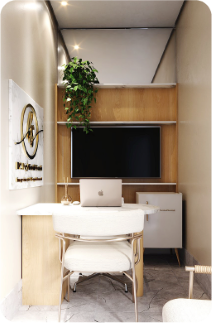
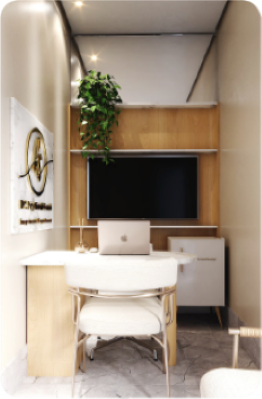
Atualizações nos arquivos index.html e style.css

diff --git a/style.css b/style.css
@@ -34,11 +34,11 @@
 .doutoras-png {
     position: absolute;
     top: 50%; /* Centraliza verticalmente no banner */
-    left: 80%;/* Centraliza horizontalmente no banner */
+    left: 78%;/* Centraliza horizontalmente no banner */
     transform: translate(-50%, -50%); /* Garante alinhamento central */
     width: auto; /* Reduz o tamanho da imagem para 15% da largura do banner */
     max-width: 820px; /* Limita o tamanho máximo (opcional) */
-    height: 100%; /* Mantém as proporções da imagem */
+    height: 80%; /* Mantém as proporções da imagem */
     z-index: 10; /* Coloca a imagem acima do banner */
   }
 
@@ -461,7 +461,7 @@ h8 {
   }
   
   .depoimentos button:hover {
-    background-color: #3e8e41;
+    background-color: #8e3e6f;
   }
   
 
@@ -521,6 +521,9 @@ h8 {
     border-radius: 10px;
     overflow: hidden;
   }
+
+
+  
 
 
   /* Media query para mobile */
@@ -735,7 +738,11 @@ h8 {
 }
 
 
-
+@media (max-width: 768px) {
+    .prev {
+      font-size: 14px;
+    }
+  }
 
 @media (max-width: 768px) {
     .bobfooter .row {

diff --git a/index.html b/index.html
@@ -227,7 +227,8 @@
             <div class="d-flex align-items-center justify-content-center mt-4 w-100">
                 <div id="parceria-list" class="row row-cols-auto gap-4 w-100">
                     <div class="col">
-                        <img src="images/nutro.png" class="img-card" />
+                        <a href="images/nutro.png" data-lightbox="parceria"></a>
+                         <img src="images/nutro.png" class="img-card" />
                     </div>
 
                     <div class="col">
@@ -498,6 +499,8 @@
     </script>
 
     <script>
+
+        
         
 
         
@@ -521,6 +524,10 @@
         container.scrollBy({ left: 300, behavior: 'smooth' });
     });
 </script>
+
+
+
+
 </body>
 
 </html>
